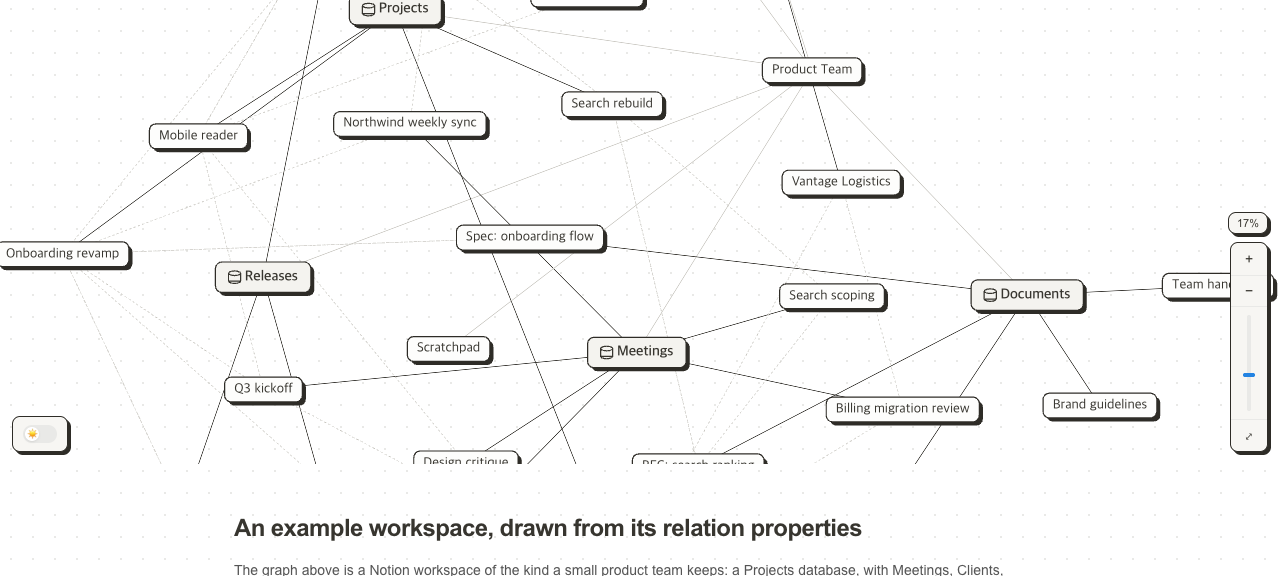
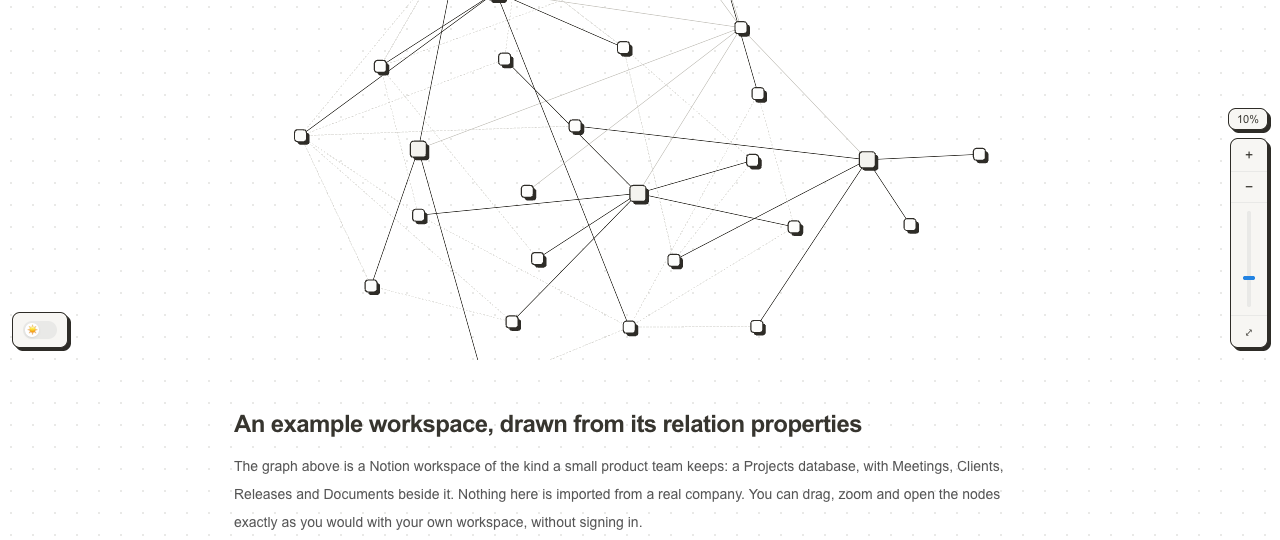
feat: in-article ad on the demo page instead of a bar across the screen
띠로 가로지르는 대신 소개 글 안에 카드로 넣는다. 리드문 바로 뒤라 글을 조금만
읽어도 닿고, 1280x900 에서 756px 지점에 걸려 거의 첫 화면에 들어온다.

글처럼 위장하지는 않는다. 구글이 "may not implement Google ads in a manner that
disguises the ads in any way" 라고 못박고 라벨도 "Advertisement" 또는
"Sponsored Links" 만 허용하므로, 점선 테두리와 ADVERTISEMENT 라벨을 남긴다.

소개 글 스크린샷이 데모 페이지 자체를 찍은 것이어서 그래프만 담은 것으로 교체했다.

Claude-Session: https://claude.ai/code/session_01X3PenvKHX1ahiS8CiYYk3n

diff --git a/src/features/demo/DemoIntro.tsx b/src/features/demo/DemoIntro.tsx
@@ -1,6 +1,7 @@
 import Link from "next/link";
 import { DICT, langHref, type Lang } from "@/lib/i18n";
 import { DEMO_COPY } from "./copy";
+import AdBanner from "@/components/AdBanner";
 
 /** 예시 화면 아래 설명 — 그래프에서 무엇을 보고 있는지, 어떻게 만져 보는지 */
 export default function DemoIntro({ lang }: { lang: Lang }) {
@@ -11,26 +12,31 @@ export default function DemoIntro({ lang }: { lang: Lang }) {
       <h1 className="text-2xl font-bold tracking-tight">{c.title}</h1>
       <p className="mt-3 text-sm leading-7 text-[#555]">{c.lead}</p>
 
+      {/* 리드문 바로 뒤 — 글을 조금만 읽어도 닿는다. 더 뒤로 보내면 스크롤을 한참 해야 나온다 */}
+      <AdBanner variant="article" />
+
       {/* 위 그래프가 WebGL 로 그려져 검색 결과나 공유 카드에는 안 잡힌다 — 같은 장면을 이미지로도 둔다 */}
       <figure className="mt-8">
         <img
           src="/shots/graph-overview.png"
           alt={c.shotAlt}
           width={1280}
-          height={576}
+          height={540}
           className="w-full rounded-[10px] border-[1.5px] border-[#2E2C27] shadow-[5px_5px_0_#2E2C27] dark:border-black dark:shadow-[5px_5px_0_#000]"
         />
         <figcaption className="mt-2 text-xs text-[#91908C]">{c.shotCaption}</figcaption>
       </figure>
 
       {c.sections.map((s) => (
-        <div key={s.heading} className="mt-9">
-          <h2 className="text-base font-semibold">{s.heading}</h2>
-          {s.body.map((p) => (
-            <p key={p} className="mt-2 text-sm leading-7 text-[#555]">
-              {p}
-            </p>
-          ))}
+        <div key={s.heading}>
+          <div className="mt-9">
+            <h2 className="text-base font-semibold">{s.heading}</h2>
+            {s.body.map((p) => (
+              <p key={p} className="mt-2 text-sm leading-7 text-[#555]">
+                {p}
+              </p>
+            ))}
+          </div>
         </div>
       ))}
 

diff --git a/src/app/demo/page.tsx b/src/app/demo/page.tsx
@@ -3,7 +3,6 @@ import { currentLang } from "@/lib/lang.server";
 import { pageMeta } from "@/lib/seo";
 import { DICT } from "@/lib/i18n";
 import DemoGraphClient from "@/features/demo/DemoGraphClient";
-import AdBanner from "@/components/AdBanner";
 import DemoIntro from "@/features/demo/DemoIntro";
 
 export async function generateMetadata(): Promise<Metadata> {
@@ -16,13 +15,12 @@ export default async function DemoPage() {
   return (
     <div className="flex min-h-screen flex-col bg-white nm-dotgrid dark:bg-[#191919]">
       {/* 그래프를 조금 줄여 광고가 첫 화면 안에 들어오게 한다 — 맨 아래에 두면 스크롤해야 보인다 */}
-      <div className="h-[64vh] min-h-[380px] shrink-0">
+      <div className="h-[60vh] min-h-[360px] shrink-0">
         <DemoGraphClient workspace={DICT[lang].demoWorkspace} />
       </div>
-      {/* 요금제와 무관하게 항상 — 예시 화면은 제품이 아니라 보여주기용 공개 페이지이고,
-          광고가 실제로 어떻게 보이는지가 AdSense 심사에서 확인돼야 한다.
-          그래프와 글 사이가 자연스러운 구분선이라 여기에 둔다 */}
-      <AdBanner />
+      {/* 광고는 소개 글 안(DemoIntro)에 끼워 둔다 — 띠로 가로지르는 것보다 읽는 흐름에 맞는다.
+          요금제와 무관하게 항상 나온다: 예시 화면은 제품이 아니라 공개 전시용이고,
+          광고가 실제로 어떻게 보이는지가 AdSense 심사에서 확인돼야 한다 */}
       <DemoIntro lang={lang} />
     </div>
   );

diff --git a/src/components/AdBanner.tsx b/src/components/AdBanner.tsx
@@ -11,10 +11,32 @@ import { useT } from "@/features/i18n/LangProvider";
 export default function AdBanner({
   variant = "page",
 }: {
-  /** page = 화면 하단 가로 배너 / panel = 노드 상세 패널 하단(폭이 좁고 더 낮다) */
-  variant?: "page" | "panel";
+  /**
+   * page    = 화면 하단 가로 띠
+   * panel   = 노드 상세 패널 하단(폭이 좁고 더 낮다)
+   * article = 글 사이에 끼우는 카드(본문 폭에 맞춤)
+   */
+  variant?: "page" | "panel" | "article";
 }) {
   const t = useT();
+  if (variant === "article") {
+    return (
+      <aside
+        data-testid="ad_banner_article"
+        /* ⚠ 글처럼 보이게 만들지 않는다 — 구글: "may not implement Google ads in a manner that
+           disguises the ads in any way. This includes formatting neighboring content to look
+           similar to the ads."(answer/1346295) 그래서 테두리와 라벨을 남긴다 */
+        className="my-10 rounded-[10px] border border-dashed border-[#D6D5D1] bg-[#FBFBFA] px-4 py-5 dark:border-[#3A3A3A] dark:bg-[#1C1C1C]"
+      >
+        <span className="block text-[10px] uppercase tracking-widest text-[#A3A29E]">
+          {t.adLabel}
+        </span>
+        <div className="mt-3 flex h-[90px] items-center justify-center">
+          <span className="text-xs tracking-wide text-[#91908C]">{t.adSlot}</span>
+        </div>
+      </aside>
+    );
+  }
   const panel = variant === "panel";
   return (
     <div

diff --git a/src/lib/i18n.ts b/src/lib/i18n.ts
@@ -89,6 +89,7 @@ const ko = {
   propDescription: "설명",
   propSchema: "속성",
   adSlot: "AD — 광고 영역 (Free)",
+  adLabel: "Advertisement",
 
   // 설정 패널
   plan: "요금제",
@@ -296,6 +297,7 @@ const en: Shape = {
   propDescription: "Description",
   propSchema: "Properties",
   adSlot: "AD — ad slot (Free)",
+  adLabel: "Advertisement",
 
   plan: "Plan",
   manageSubscription: "Manage subscription",

diff --git a/CLAUDE.md b/CLAUDE.md
@@ -122,7 +122,7 @@ src/
 
 ## 제품 규칙
 - 인증: 노션 OAuth 단일 (자체 계정 없음)
-- Free: 노드 1,000개(초과 시 최근 수정순만 렌더) · 워크스페이스 1개 · 숨김/핀은 세션 한정 · 광고는 `components/AdBanner` **한 곳에만** 있다(`variant="page"` 화면 하단 / `"panel"` 노드 상세). 나오는 자리: 홈, /demo, /guide, /faq, /pricing, /graph, 노드 상세 패널. ⚠ 승인 뒤 광고 단위는 이 파일 하나만 고치면 전부 바뀐다 — 자리마다 따로 심지 말 것(`scripts/check-ads.mjs` 가 막는다). /demo 는 요금제와 무관하게 항상 표시(공개 전시용), 나머지는 Free 만. **페이월 모달에는 넣지 않는다** — 구글이 interstitial 에 콘텐츠 광고를 금지하고, 광고 제거를 권하는 창이라 앞뒤가 안 맞는다 — `AdBanner` 플레이스홀더, 광고 단위 slot 은 AdSense 승인 후 발급). AdSense 게시자 `ca-pub-3545555975398754`(`components/adsense.ts`, AdMob 과 같은 계정): `public/ads.txt`, `<meta google-adsense-account>`(소유 확인), 스크립트는 `AdSenseLoader` 가 항상 로드(구글 인증 CMP 가 이 스크립트로 EEA/UK/CH 동의창을 띄움 — AdSense 에서 3선택 CMP 메시지 선택). 우리 배너는 맞춤 여부만 가른다 — 동의 시 맞춤, 거부나 미응답 시 `requestNonPersonalizedAds=1` 비맞춤. ⚠ `pauseAdRequests` 로 요청을 막지 않는다(막으면 배너를 안 누른 방문자와 구글 점검 봇에게 광고 코드가 한 번도 안 돌아 심사가 안 넘어가고 수익이 0). EEA 사용자는 창 둘 볼 수 있음 — 트래픽 생기면 지역 분기
+- Free: 노드 1,000개(초과 시 최근 수정순만 렌더) · 워크스페이스 1개 · 숨김/핀은 세션 한정 · 광고는 `components/AdBanner` **한 곳에만** 있다(`variant="page"` 화면 하단 / `"panel"` 노드 상세). 나오는 자리: 홈, /demo, /guide, /faq, /pricing, /graph, 노드 상세 패널. ⚠ 승인 뒤 광고 단위는 이 파일 하나만 고치면 전부 바뀐다 — 자리마다 따로 심지 말 것(`scripts/check-ads.mjs` 가 막는다). /demo 는 띠가 아니라 `variant="article"`(소개 글 리드문 뒤, 본문 폭 카드)로 넣고 요금제와 무관하게 항상 표시(공개 전시용), 나머지는 Free 만. ⚠ 글 안에 넣더라도 **글처럼 위장하지 않는다** — 구글: "may not implement Google ads in a manner that disguises the ads in any way", 라벨은 "Advertisement" 또는 "Sponsored Links" 만 허용(answer/1346295). 그래서 점선 테두리와 ADVERTISEMENT 라벨을 남긴다. **페이월 모달에는 넣지 않는다** — 구글이 interstitial 에 콘텐츠 광고를 금지하고, 광고 제거를 권하는 창이라 앞뒤가 안 맞는다 — `AdBanner` 플레이스홀더, 광고 단위 slot 은 AdSense 승인 후 발급). AdSense 게시자 `ca-pub-3545555975398754`(`components/adsense.ts`, AdMob 과 같은 계정): `public/ads.txt`, `<meta google-adsense-account>`(소유 확인), 스크립트는 `AdSenseLoader` 가 항상 로드(구글 인증 CMP 가 이 스크립트로 EEA/UK/CH 동의창을 띄움 — AdSense 에서 3선택 CMP 메시지 선택). 우리 배너는 맞춤 여부만 가른다 — 동의 시 맞춤, 거부나 미응답 시 `requestNonPersonalizedAds=1` 비맞춤. ⚠ `pauseAdRequests` 로 요청을 막지 않는다(막으면 배너를 안 누른 방문자와 구글 점검 봇에게 광고 코드가 한 번도 안 돌아 심사가 안 넘어가고 수익이 0). EEA 사용자는 창 둘 볼 수 있음 — 트래픽 생기면 지역 분기
 - Pro: 무제한 · 핀/숨김/필터 영구 저장 · 자동 동기화 · 내보내기 · 광고 제거
 - 도구는 보여주기만 — 결함 판정·감사 기능 없음 (Won't)
 - 노션 API rate limit ~3req/s → 초기 동기화는 부분 렌더
